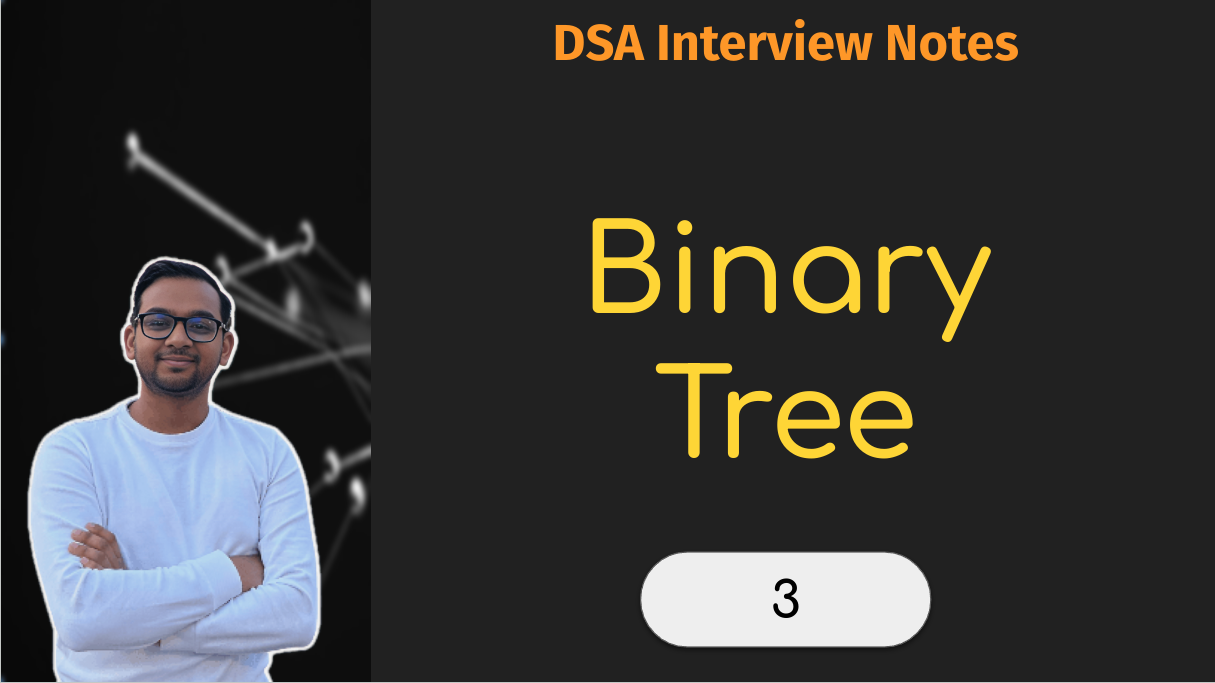
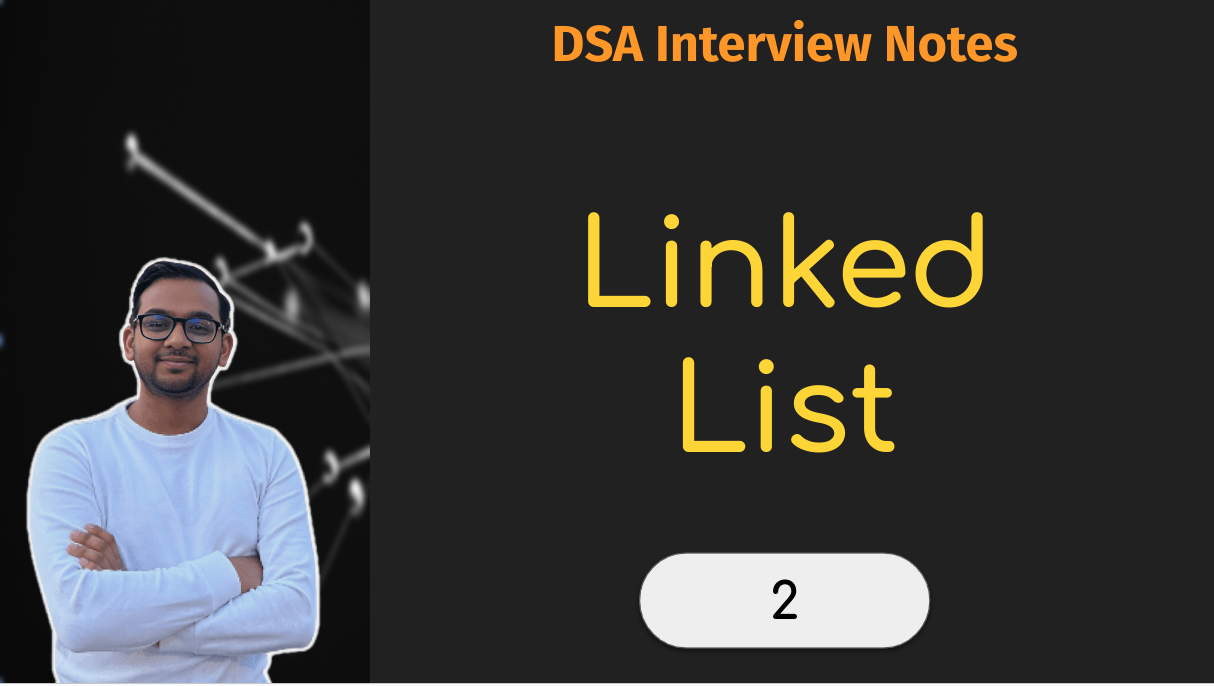
add: dsa part 2

diff --git a/layouts/partials/head-additions.html b/layouts/partials/head-additions.html
@@ -1,0 +1,2 @@
+<script src="https://polyfill.io/v3/polyfill.min.js?features=es6"></script>
+<script id="MathJax-script" async src="https://cdn.jsdelivr.net/npm/mathjax@3/es5/tex-mml-chtml.js"></script>

diff --git a/content/post/240219-dsa-notes-part-2.md b/content/post/240219-dsa-notes-part-2.md
@@ -1,0 +1,120 @@
+---
+title: "DSA Interview Notes: Linked List [Part 2]"
+date: 2024-02-19T21:53:23+05:30
+draft: false
+tags: ["dsa", "interviews"]
+featured_image: /post/images/dsa-part2-bg.png
+---
+
+Linked List is a linear data structure in which elements are stored in nodes and each of the node contains the data and address or link or reference to the next node in the sequence.
+
+In linked list related problems, most of the questions will revolve around manipulation of pointers.
+
+1. **Reversing a linked list** is sometimes required to solve the task. Here's how you can do it:
+    ```cpp
+    ListNode* reverseList(ListNode* head) {
+        if (!head || !head->next) return head;
+
+        ListNode* curr = head;
+        ListNode* prev = nullptr;
+        while (curr) {
+            ListNode* next = curr->next;
+
+            // note this pattern
+            curr->next = prev;
+            prev = curr;
+            curr = next;
+        }
+        return prev;
+    }
+    ```
+
+    Practice problems:
+    - [Reverse Linked List II](https://leetcode.com/problems/reverse-linked-list-ii)
+    - [Reverse Nodes in K group](https://leetcode.com/problems/reverse-nodes-in-k-group/)
+    - [Add Two Numbers II](https://leetcode.com/problems/add-two-numbers-ii)
+
+2. **Fast and slow pointer** approach is another idea which can be seen in the interview questions. Illustrating how to [find middle point](https://leetcode.com/problems/middle-of-the-linked-list) using it  :
+    ```cpp
+    ListNode* middleNode(ListNode* head) {
+        ListNode* slow = head;
+        ListNode* fast = head;
+        while (fast && fast->next) {
+            slow = slow->next;
+            fast = fast->next->next;
+        }
+        return slow;
+    }
+    ```
+
+    This concept can be applied to solve [Detect and Find Cycle](https://leetcode.com/problems/linked-list-cycle-ii) in a linked list. Additionally, you need to know an important trick i.e. **when cycle exists, slow and fast pointer merge** after some iterations.
+    
+    {{< figure src="/post/images/linked list cycle detection.png">}}
+
+    And to find the node from which the cycle starts, use the following technique. Let's say distance from head of linked list to start of the cycle is `x`, distance from start of the cycle to merge point is `y`, and distance travelled from merge point to start of the cycle is `z`.
+    
+    $$ 2 (x+y) = x+y+y+z $$
+    $$ x = z $$
+
+    It means that **travelling equal distance from head and merge point, it meets at the start of the cycle.** So, simply put one pointer at head and other at merge point, and iterate next pointers till both meets at desired point.
+
+*Tip: Creating a new sentinel nodes and pointing it to head is a useful trick to avoid edge cases.*
+
+[Copy List with Random Pointer](https://leetcode.com/problems/copy-list-with-random-pointer) is a tricky but an important problem to understand. Essentially, we have to deepcopy a linked list where each nodes is having next and random pointer. The intuitive approach is to first create new nodes by iterating through the next pointers and store the old to new node mapping in a hashmap, and then replicate random pointers using that hashmap. But there exists a beautiful O(1) space complexity solution. Let's see the implementation:
+```cpp
+Node* copyRandomList(Node* head) {
+        // This can be broken down into three parts
+        // 1. Create new nodes such that the new node follows its corresponding old node
+        // 2. Add random pointer based on old nodes
+        // 3. Restore original linked list and return copied head
+
+        // Step 1
+        // Before: 1 -> 2 -> 3 -> NULL
+        // After: 1 -> 1' -> 2 -> 2' -> 3 -> 3' -> NULL
+        Node* curr = head;
+        while (curr) {
+            Node* dup = new Node(curr->val);
+            Node* nxt = curr->next;
+            curr->next = dup;
+            dup->next = nxt;
+            curr = nxt;
+        }
+
+        // Step 2
+        // newNode->random = (oldNode->random)->next
+        // (oldNode->next)->random = (oldNode->random)->next
+        curr = head;
+        while (curr) {
+            if (curr->random) {
+                curr->next->random = curr->random->next;
+            }
+            curr = curr->next->next;
+        }
+
+        // Step 3 - Restore
+        Node* sentinel = new Node(-1);
+        sentinel->next = head;
+
+        Node* newNode = sentinel;
+        Node* oldNode = head;
+        while (oldNode) {
+            Node* nextNewNode = oldNode->next;
+            Node* nextOldNode = oldNode->next->next;
+            
+            newNode->next = nextNewNode;
+            oldNode->next = nextOldNode;
+
+            newNode = nextNewNode;
+            oldNode = nextOldNode;
+        }
+        return sentinel->next;
+    }
+```
+
+Practice problems:
+- [Remove Duplicates from Sorted List](https://leetcode.com/problems/remove-duplicates-from-sorted-list)
+- [Remove Duplicates from Sorted List II](https://leetcode.com/problems/remove-duplicates-from-sorted-list-ii)
+- [Split Linked List in Parts](https://leetcode.com/problems/split-linked-list-in-parts)
+- [Palindrome Linked List](https://leetcode.com/problems/palindrome-linked-list)
+- [Delete the Middle Node of a Linked List](https://leetcode.com/problems/delete-the-middle-node-of-a-linked-list)
+- [Rotate List](https://leetcode.com/problems/rotate-list)

diff --git a/content/post/240218-dsa-notes-part-1.md b/content/post/240218-dsa-notes-part-1.md
@@ -26,6 +26,7 @@ Some common scenarios where you can apply two-pointer approach is:
 | 3  | [ Move Zeroes ]( https://leetcode.com/problems/move-zeroes )                                                  | Move all zeroes to the end                   | Keep one pointer to track the index of non-negative integer and other one to iterate all values.                                                           |
 
 TODO: Add 'merge sorted arrays' and 'pivot' approach here
+TODO: Add 'prefix and suffix' and 'trapping rainwater' technique
 
 ## Subarray problems
 

diff --git a/content/post/240211-dsa-notes-part-3.md b/content/post/240211-dsa-notes-part-3.md
@@ -3,7 +3,7 @@ title: "DSA Interview Notes: Binary Tree [Part 3]"
 date: 2024-02-11T20:01:57+05:30
 draft: false
 tags: ["dsa", "interviews"]
-featured_image: /post/images/dsa-part2-bg.png
+featured_image: /post/images/dsa-part3-bg.png
 ---
 
 Binary tree is a data structure in which each node has at most two children i.e. left and right child.
